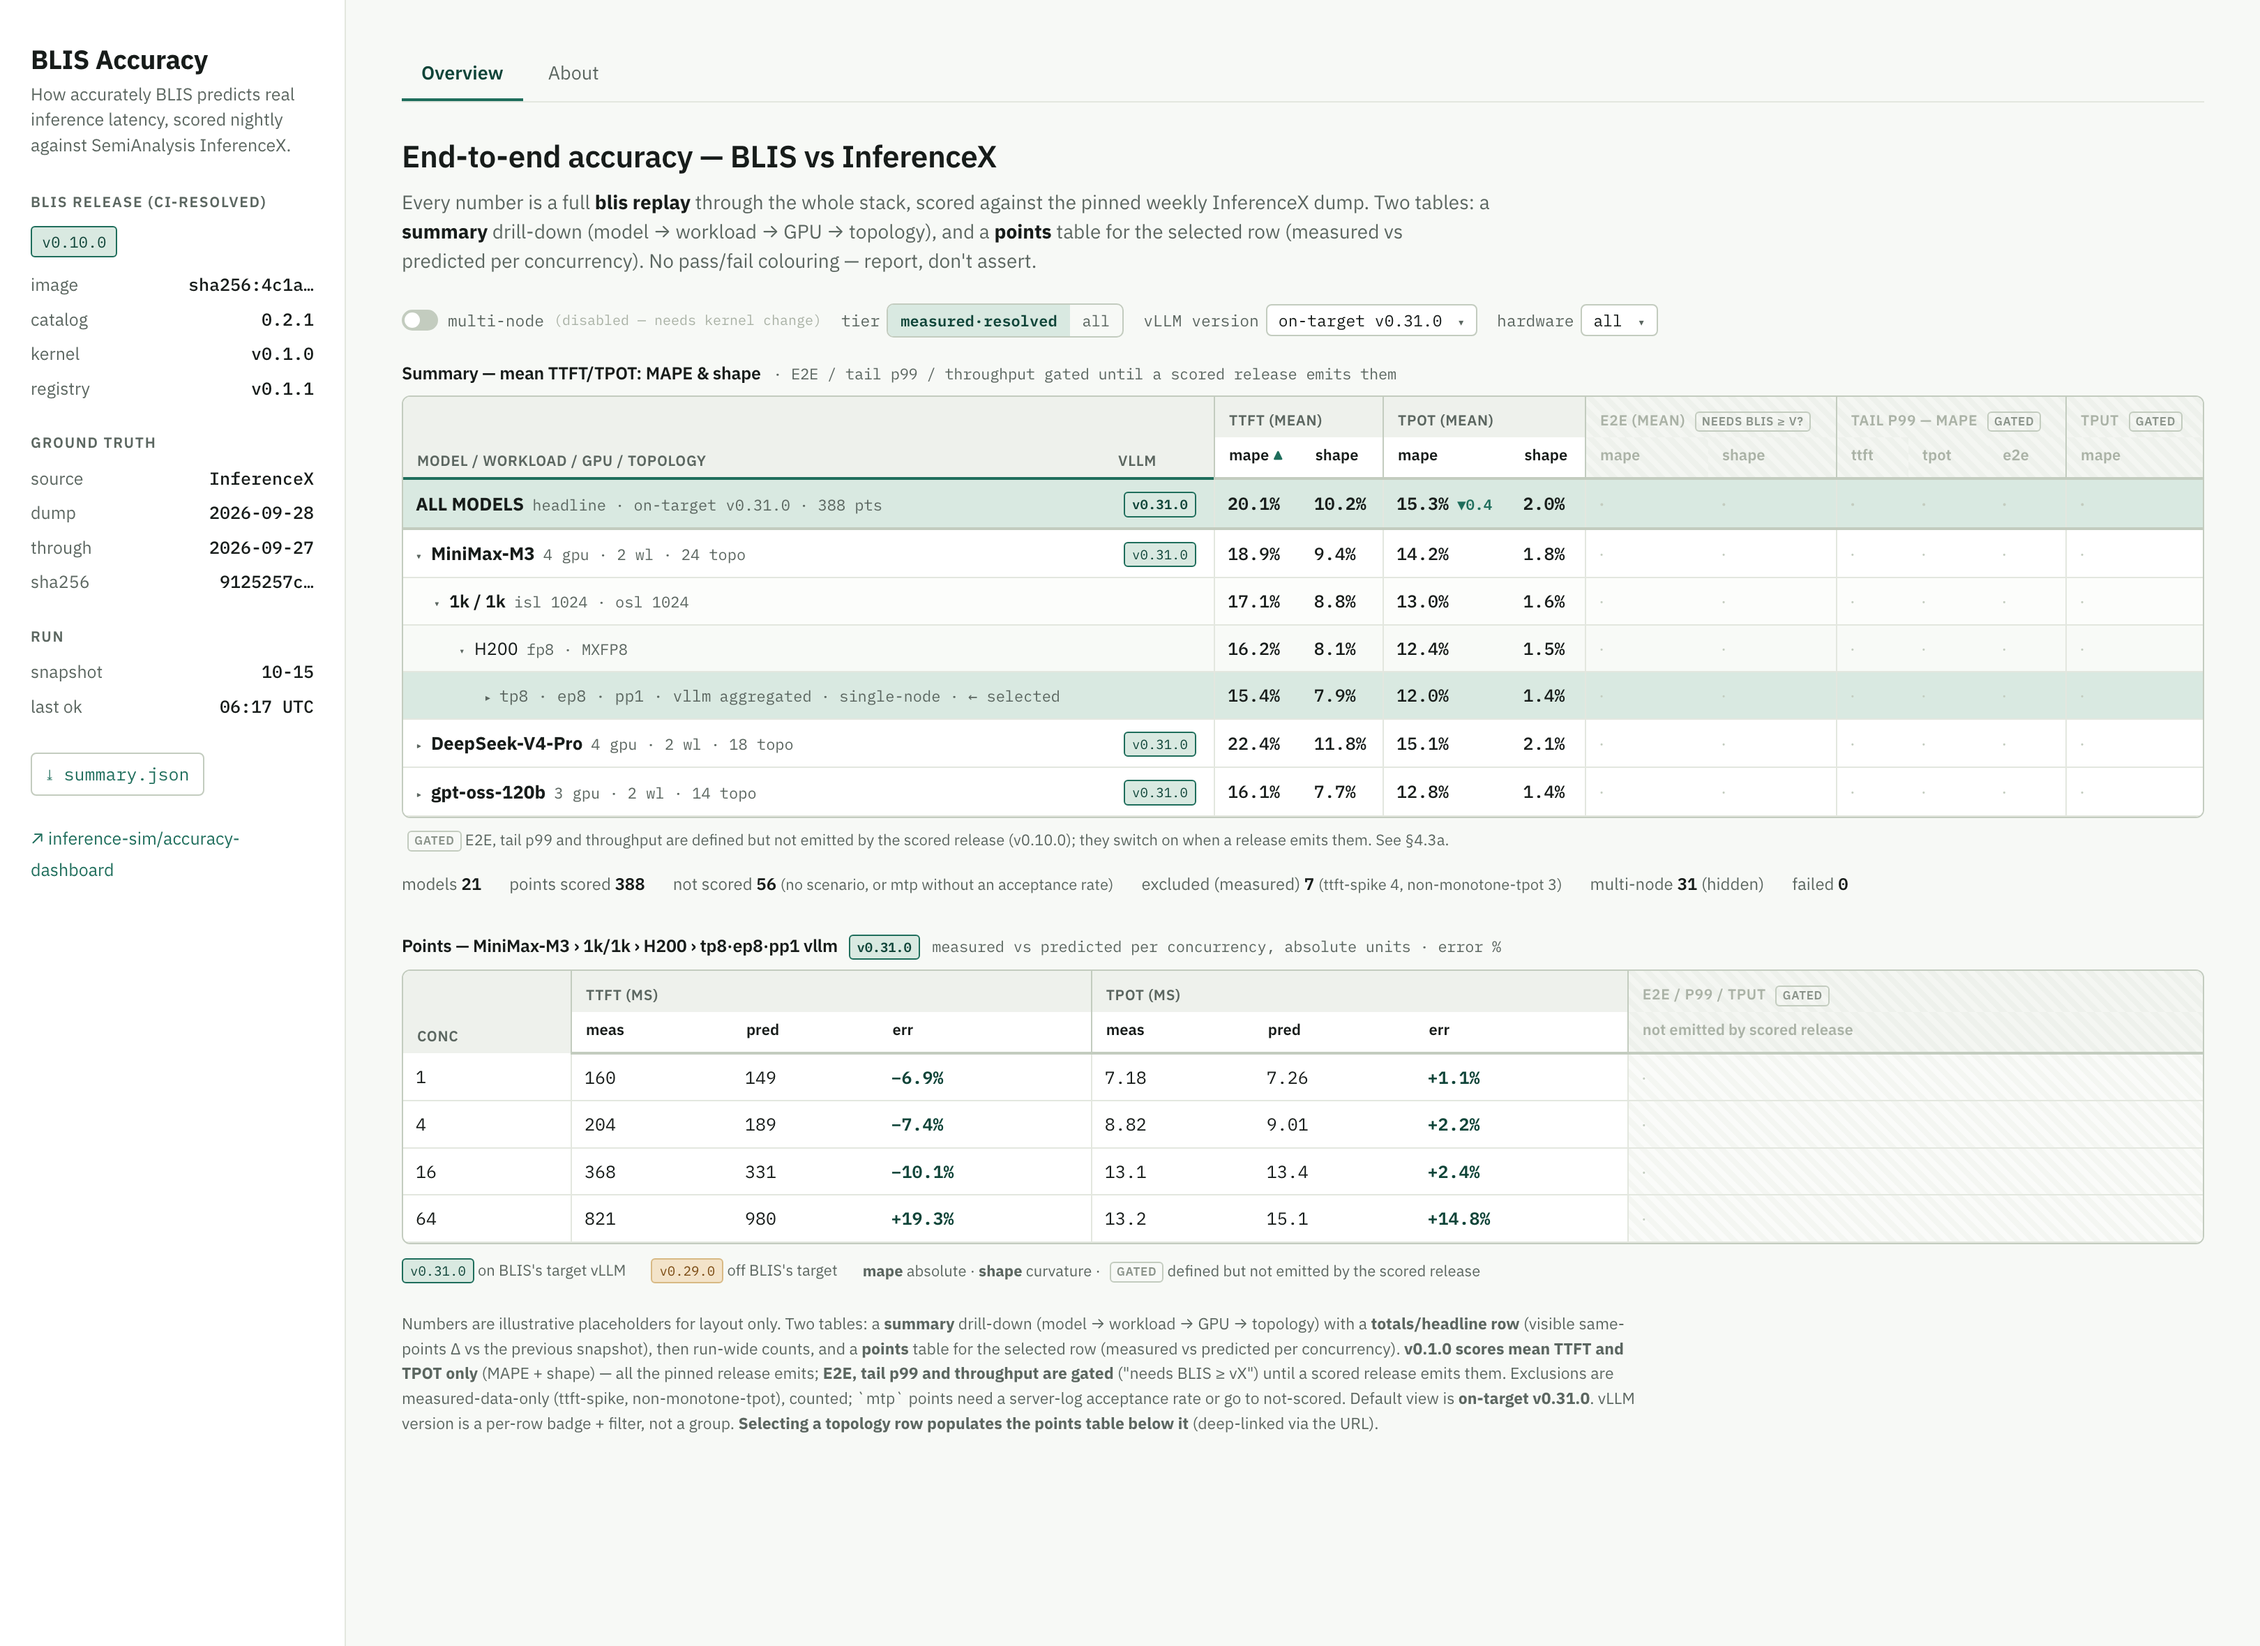
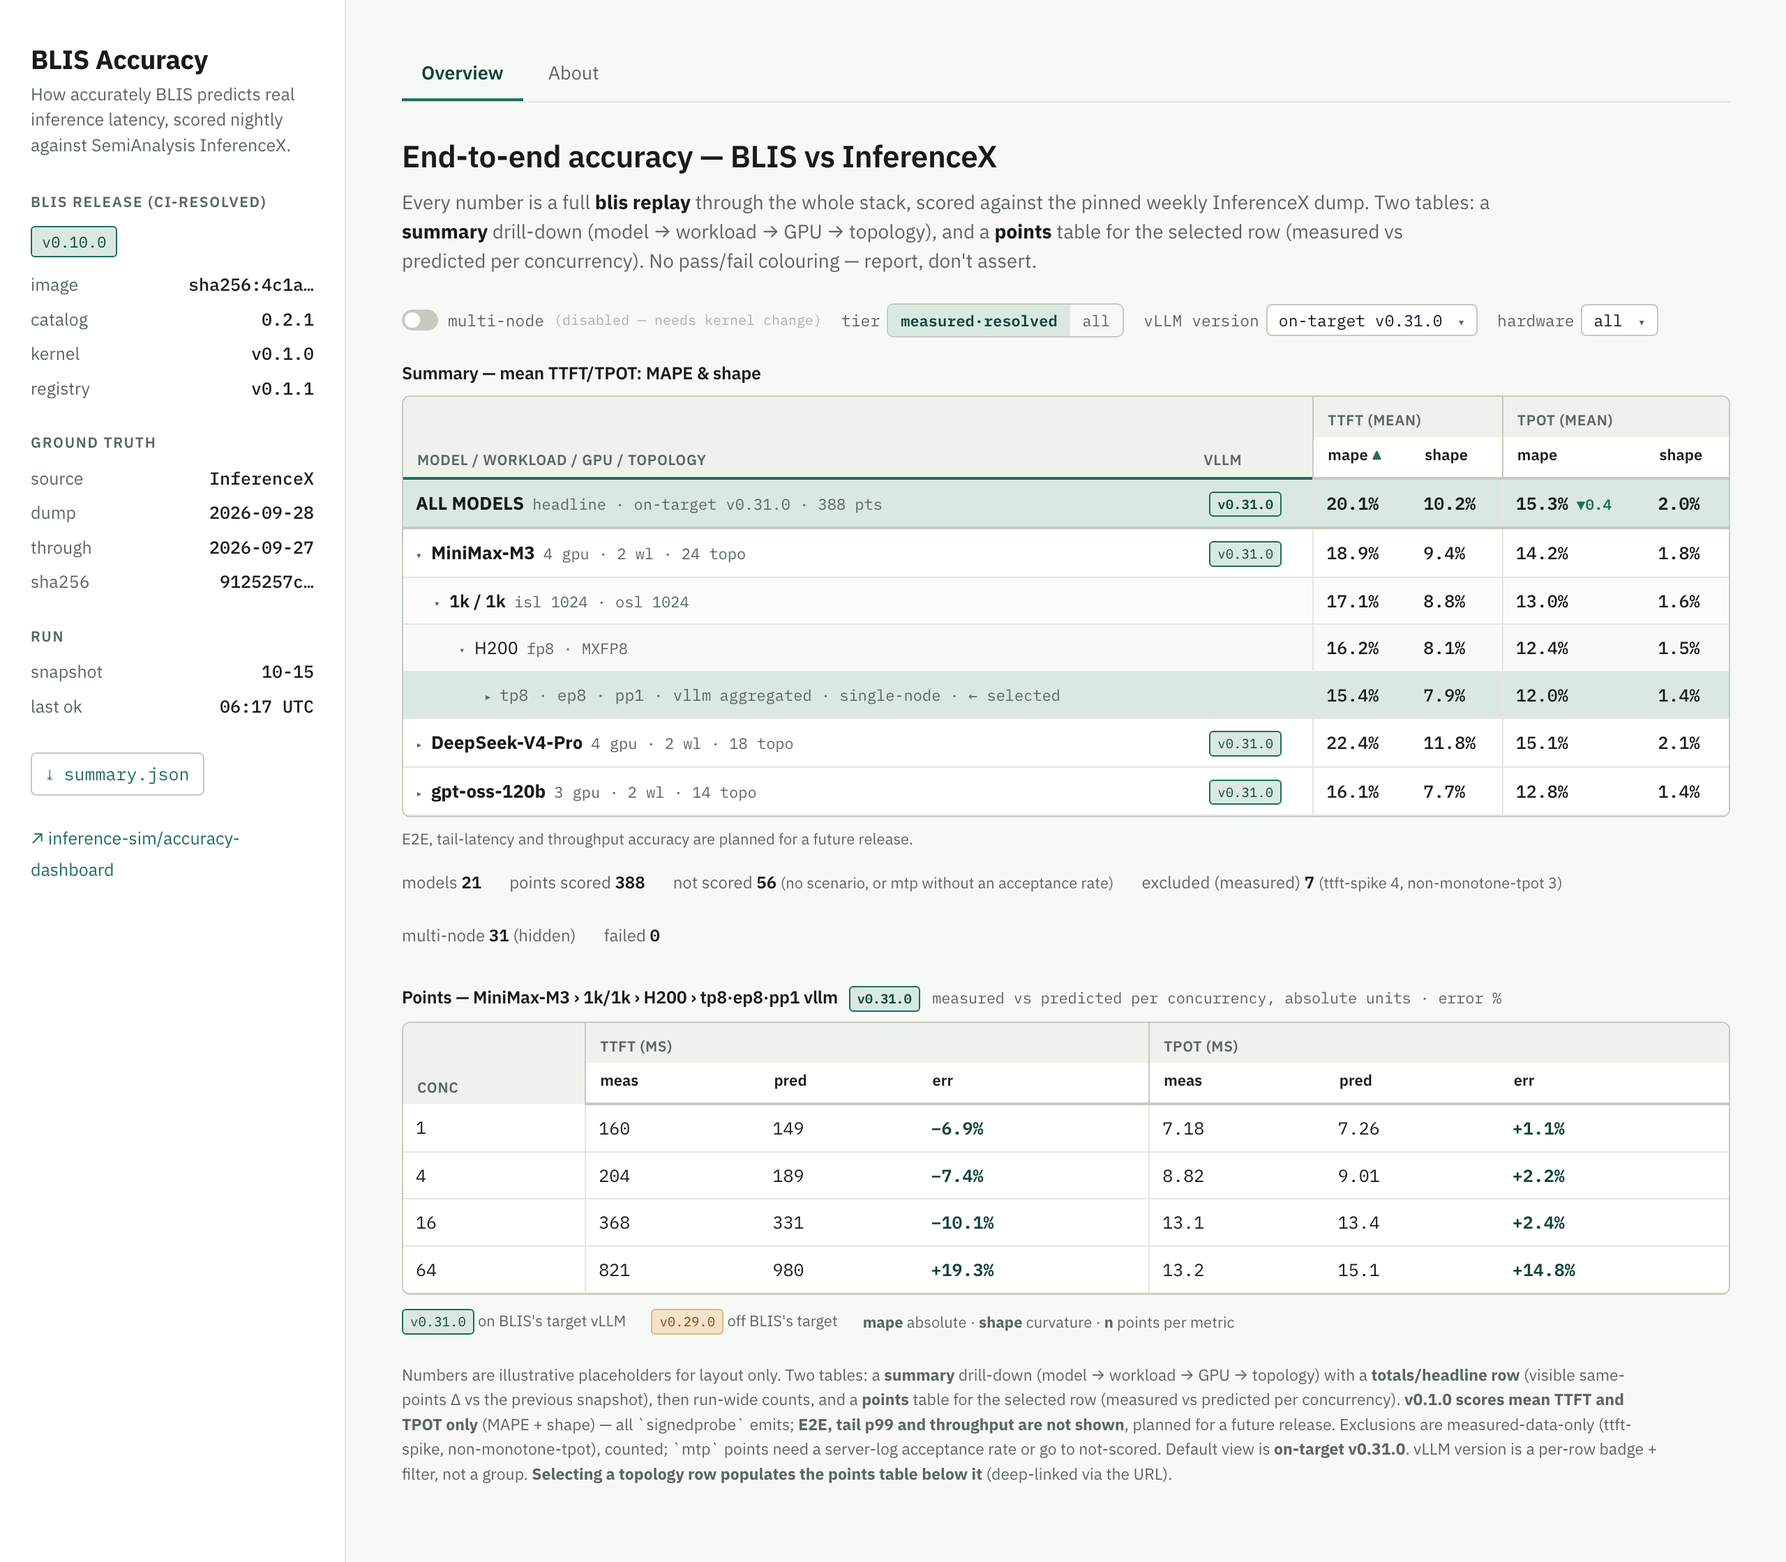
docs: signedprobe plan — drop gated E2E/tail/throughput columns entirely
Per decision: TTFT/TPOT only (what cmd/signedprobe emits); E2E/tail/throughput
are not shown at all (not gated), with a one-line "future release" note. Removes
the gated columns from both tables, the GATED legend entry, and the gated
wording in the footer.

diff --git a/docs/mockups/overview-v0.1.0.html b/docs/mockups/overview-v0.1.0.html
@@ -144,7 +144,7 @@ td .n{font-family:var(--font-mono);font-size:10px;color:var(--muted);margin-left
     </div>
 
     <!-- ============ TABLE 1: SUMMARY DRILL-DOWN ============ -->
-    <div class="tbl-title">Summary — mean TTFT/TPOT: MAPE &amp; shape <span class="facet">· E2E / tail p99 / throughput gated until a scored release emits them</span></div>
+    <div class="tbl-title">Summary — mean TTFT/TPOT: MAPE &amp; shape</div>
     <div class="tscroll">
       <table class="readout">
         <thead>
@@ -153,69 +153,42 @@ td .n{font-family:var(--font-mono);font-size:10px;color:var(--muted);margin-left
             <th rowspan="2" style="vertical-align:bottom">vLLM</th>
             <th class="sep" colspan="2">TTFT (mean)</th>
             <th class="sep" colspan="2">TPOT (mean)</th>
-            <th class="sep gated" colspan="2">E2E (mean) <span class="gate">needs BLIS ≥ v?</span></th>
-            <th class="sep gated" colspan="3">Tail p99 — MAPE <span class="gate">gated</span></th>
-            <th class="sep gated">Tput <span class="gate">gated</span></th>
           </tr>
           <tr class="col">
             <th class="sep">mape <span class="arrow">▲</span></th><th>shape</th>
             <th class="sep">mape</th><th>shape</th>
-            <th class="sep gated">mape</th><th class="gated">shape</th>
-            <th class="sep gated">ttft</th><th class="gated">tpot</th><th class="gated">e2e</th>
-            <th class="sep gated">mape</th>
           </tr>
         </thead>
         <tbody>
           <tr class="r0 totals"><td class="name"><b>ALL MODELS</b><span class="facet">headline · on-target v0.31.0 · 388 pts</span></td>
             <td><span class="ver">v0.31.0</span></td>
             <td class="sep"><span class="num">20.1%</span></td><td><span class="num">10.2%</span></td>
-            <td class="sep"><span class="num">15.3%</span> <span class="delta">▼0.4</span></td><td><span class="num">2.0%</span></td>
-            <td class="sep gated"><span class="g">·</span></td><td class="gated"><span class="g">·</span></td>
-            <td class="sep gated"><span class="g">·</span></td><td class="gated"><span class="g">·</span></td><td class="gated"><span class="g">·</span></td>
-            <td class="sep gated"><span class="g">·</span></td></tr>
+            <td class="sep"><span class="num">15.3%</span> <span class="delta">▼0.4</span></td><td><span class="num">2.0%</span></td></tr>
           <tr class="r0 selrow"><td class="name"><span class="caret">▾</span>MiniMax-M3<span class="facet">4 gpu · 2 wl · 24 topo</span></td>
             <td><span class="ver">v0.31.0</span></td>
             <td class="sep"><span class="num">18.9%</span></td><td><span class="num">9.4%</span></td>
-            <td class="sep"><span class="num">14.2%</span></td><td><span class="num">1.8%</span></td>
-            <td class="sep gated"><span class="g">·</span></td><td class="gated"><span class="g">·</span></td>
-            <td class="sep gated"><span class="g">·</span></td><td class="gated"><span class="g">·</span></td><td class="gated"><span class="g">·</span></td>
-            <td class="sep gated"><span class="g">·</span></td></tr>
+            <td class="sep"><span class="num">14.2%</span></td><td><span class="num">1.8%</span></td></tr>
           <tr class="r1 selrow"><td class="name"><span class="caret">▾</span>1k / 1k<span class="facet">isl 1024 · osl 1024</span></td>
             <td></td>            <td class="sep"><span class="num">17.1%</span></td><td><span class="num">8.8%</span></td>
-            <td class="sep"><span class="num">13.0%</span></td><td><span class="num">1.6%</span></td>
-            <td class="sep gated"><span class="g">·</span></td><td class="gated"><span class="g">·</span></td>
-            <td class="sep gated"><span class="g">·</span></td><td class="gated"><span class="g">·</span></td><td class="gated"><span class="g">·</span></td>
-            <td class="sep gated"><span class="g">·</span></td></tr>
+            <td class="sep"><span class="num">13.0%</span></td><td><span class="num">1.6%</span></td></tr>
           <tr class="r2 selrow"><td class="name"><span class="caret">▾</span>H200<span class="facet">fp8 · MXFP8</span></td>
             <td></td>            <td class="sep"><span class="num">16.2%</span></td><td><span class="num">8.1%</span></td>
-            <td class="sep"><span class="num">12.4%</span></td><td><span class="num">1.5%</span></td>
-            <td class="sep gated"><span class="g">·</span></td><td class="gated"><span class="g">·</span></td>
-            <td class="sep gated"><span class="g">·</span></td><td class="gated"><span class="g">·</span></td><td class="gated"><span class="g">·</span></td>
-            <td class="sep gated"><span class="g">·</span></td></tr>
+            <td class="sep"><span class="num">12.4%</span></td><td><span class="num">1.5%</span></td></tr>
           <tr class="r3 sel"><td class="name"><span class="caret">▸</span>tp8 · ep8 · pp1 · vllm<span class="facet">aggregated · single-node · ← selected</span></td>
             <td></td>            <td class="sep"><span class="num">15.4%</span></td><td><span class="num">7.9%</span></td>
-            <td class="sep"><span class="num">12.0%</span></td><td><span class="num">1.4%</span></td>
-            <td class="sep gated"><span class="g">·</span></td><td class="gated"><span class="g">·</span></td>
-            <td class="sep gated"><span class="g">·</span></td><td class="gated"><span class="g">·</span></td><td class="gated"><span class="g">·</span></td>
-            <td class="sep gated"><span class="g">·</span></td></tr>
+            <td class="sep"><span class="num">12.0%</span></td><td><span class="num">1.4%</span></td></tr>
           <tr class="r0"><td class="name"><span class="caret">▸</span>DeepSeek-V4-Pro<span class="facet">4 gpu · 2 wl · 18 topo</span></td>
             <td><span class="ver">v0.31.0</span></td>
             <td class="sep"><span class="num">22.4%</span></td><td><span class="num">11.8%</span></td>
-            <td class="sep"><span class="num">15.1%</span></td><td><span class="num">2.1%</span></td>
-            <td class="sep gated"><span class="g">·</span></td><td class="gated"><span class="g">·</span></td>
-            <td class="sep gated"><span class="g">·</span></td><td class="gated"><span class="g">·</span></td><td class="gated"><span class="g">·</span></td>
-            <td class="sep gated"><span class="g">·</span></td></tr>
+            <td class="sep"><span class="num">15.1%</span></td><td><span class="num">2.1%</span></td></tr>
           <tr class="r0"><td class="name"><span class="caret">▸</span>gpt-oss-120b<span class="facet">3 gpu · 2 wl · 14 topo</span></td>
             <td><span class="ver">v0.31.0</span></td>
             <td class="sep"><span class="num">16.1%</span></td><td><span class="num">7.7%</span></td>
-            <td class="sep"><span class="num">12.8%</span></td><td><span class="num">1.4%</span></td>
-            <td class="sep gated"><span class="g">·</span></td><td class="gated"><span class="g">·</span></td>
-            <td class="sep gated"><span class="g">·</span></td><td class="gated"><span class="g">·</span></td><td class="gated"><span class="g">·</span></td>
-            <td class="sep gated"><span class="g">·</span></td></tr>
+            <td class="sep"><span class="num">12.8%</span></td><td><span class="num">1.4%</span></td></tr>
         </tbody>
       </table>
     </div>
-    <div class="gate-legend"><span class="gate">gated</span> E2E, tail p99 and throughput are defined but not emitted by the scored release (v0.10.0); they switch on when a release emits them. See §4.3a.</div>
+    <div class="gate-legend">E2E, tail-latency and throughput accuracy are planned for a future release.</div>
 
     <div class="coverage" style="margin:14px 0 4px">
       <span>models <b>21</b></span>
@@ -235,31 +208,25 @@ td .n{font-family:var(--font-mono);font-size:10px;color:var(--muted);margin-left
             <th rowspan="2" style="vertical-align:bottom">conc</th>
             <th class="sep" colspan="3">TTFT (ms)</th>
             <th class="sep" colspan="3">TPOT (ms)</th>
-            <th class="sep gated" colspan="3">E2E / p99 / Tput <span class="gate">gated</span></th>
           </tr>
           <tr class="col">
             <th class="sep">meas</th><th>pred</th><th>err</th>
             <th class="sep">meas</th><th>pred</th><th>err</th>
-            <th class="sep gated" colspan="3">not emitted by scored release</th>
           </tr>
         </thead>
         <tbody>
           <tr><td class="mono">1</td>
             <td class="sep mono">160</td><td class="mono">149</td><td class="e"><span class="num">−6.9%</span></td>
-            <td class="sep mono">7.18</td><td class="mono">7.26</td><td class="e"><span class="num">+1.1%</span></td>
-            <td class="sep gated" colspan="3"><span class="g">·</span></td></tr>
+            <td class="sep mono">7.18</td><td class="mono">7.26</td><td class="e"><span class="num">+1.1%</span></td></tr>
           <tr><td class="mono">4</td>
             <td class="sep mono">204</td><td class="mono">189</td><td class="e"><span class="num">−7.4%</span></td>
-            <td class="sep mono">8.82</td><td class="mono">9.01</td><td class="e"><span class="num">+2.2%</span></td>
-            <td class="sep gated" colspan="3"><span class="g">·</span></td></tr>
+            <td class="sep mono">8.82</td><td class="mono">9.01</td><td class="e"><span class="num">+2.2%</span></td></tr>
           <tr><td class="mono">16</td>
             <td class="sep mono">368</td><td class="mono">331</td><td class="e"><span class="num">−10.1%</span></td>
-            <td class="sep mono">13.1</td><td class="mono">13.4</td><td class="e"><span class="num">+2.4%</span></td>
-            <td class="sep gated" colspan="3"><span class="g">·</span></td></tr>
+            <td class="sep mono">13.1</td><td class="mono">13.4</td><td class="e"><span class="num">+2.4%</span></td></tr>
           <tr><td class="mono">64</td>
             <td class="sep mono">821</td><td class="mono">980</td><td class="e"><span class="num">+19.3%</span></td>
-            <td class="sep mono">13.2</td><td class="mono">15.1</td><td class="e"><span class="num">+14.8%</span></td>
-            <td class="sep gated" colspan="3"><span class="g">·</span></td></tr>
+            <td class="sep mono">13.2</td><td class="mono">15.1</td><td class="e"><span class="num">+14.8%</span></td></tr>
         </tbody>
       </table>
     </div>
@@ -268,10 +235,10 @@ td .n{font-family:var(--font-mono);font-size:10px;color:var(--muted);margin-left
     <div class="legend">
       <span><span class="ver" style="margin:0">v0.31.0</span> on BLIS's target vLLM</span>
       <span><span class="ver off" style="margin:0">v0.29.0</span> off BLIS's target</span>
-      <span><b>mape</b> absolute · <b>shape</b> curvature · <span class="gate">gated</span> defined but not emitted by the scored release</span>
+      <span><b>mape</b> absolute · <b>shape</b> curvature · <b>n</b> points per metric</span>
     </div>
 
-    <p class="foot">Numbers are illustrative placeholders for layout only. Two tables: a <b>summary</b> drill-down (model → workload → GPU → topology) with a <b>totals/headline row</b> (visible same-points Δ vs the previous snapshot), then run-wide counts, and a <b>points</b> table for the selected row (measured vs predicted per concurrency). <b>v0.1.0 scores mean TTFT and TPOT only</b> (MAPE + shape) — all the pinned release emits; <b>E2E, tail p99 and throughput are gated</b> ("needs BLIS ≥ vX") until a scored release emits them. Exclusions are measured-data-only (ttft-spike, non-monotone-tpot), counted; `mtp` points need a server-log acceptance rate or go to not-scored. Default view is <b>on-target v0.31.0</b>. vLLM version is a per-row badge + filter, not a group. <b>Selecting a topology row populates the points table below it</b> (deep-linked via the URL).</p>
+    <p class="foot">Numbers are illustrative placeholders for layout only. Two tables: a <b>summary</b> drill-down (model → workload → GPU → topology) with a <b>totals/headline row</b> (visible same-points Δ vs the previous snapshot), then run-wide counts, and a <b>points</b> table for the selected row (measured vs predicted per concurrency). <b>v0.1.0 scores mean TTFT and TPOT only</b> (MAPE + shape) — all `signedprobe` emits; <b>E2E, tail p99 and throughput are not shown</b>, planned for a future release. Exclusions are measured-data-only (ttft-spike, non-monotone-tpot), counted; `mtp` points need a server-log acceptance rate or go to not-scored. Default view is <b>on-target v0.31.0</b>. vLLM version is a per-row badge + filter, not a group. <b>Selecting a topology row populates the points table below it</b> (deep-linked via the URL).</p>
   </main>
 </div>
 </body>
